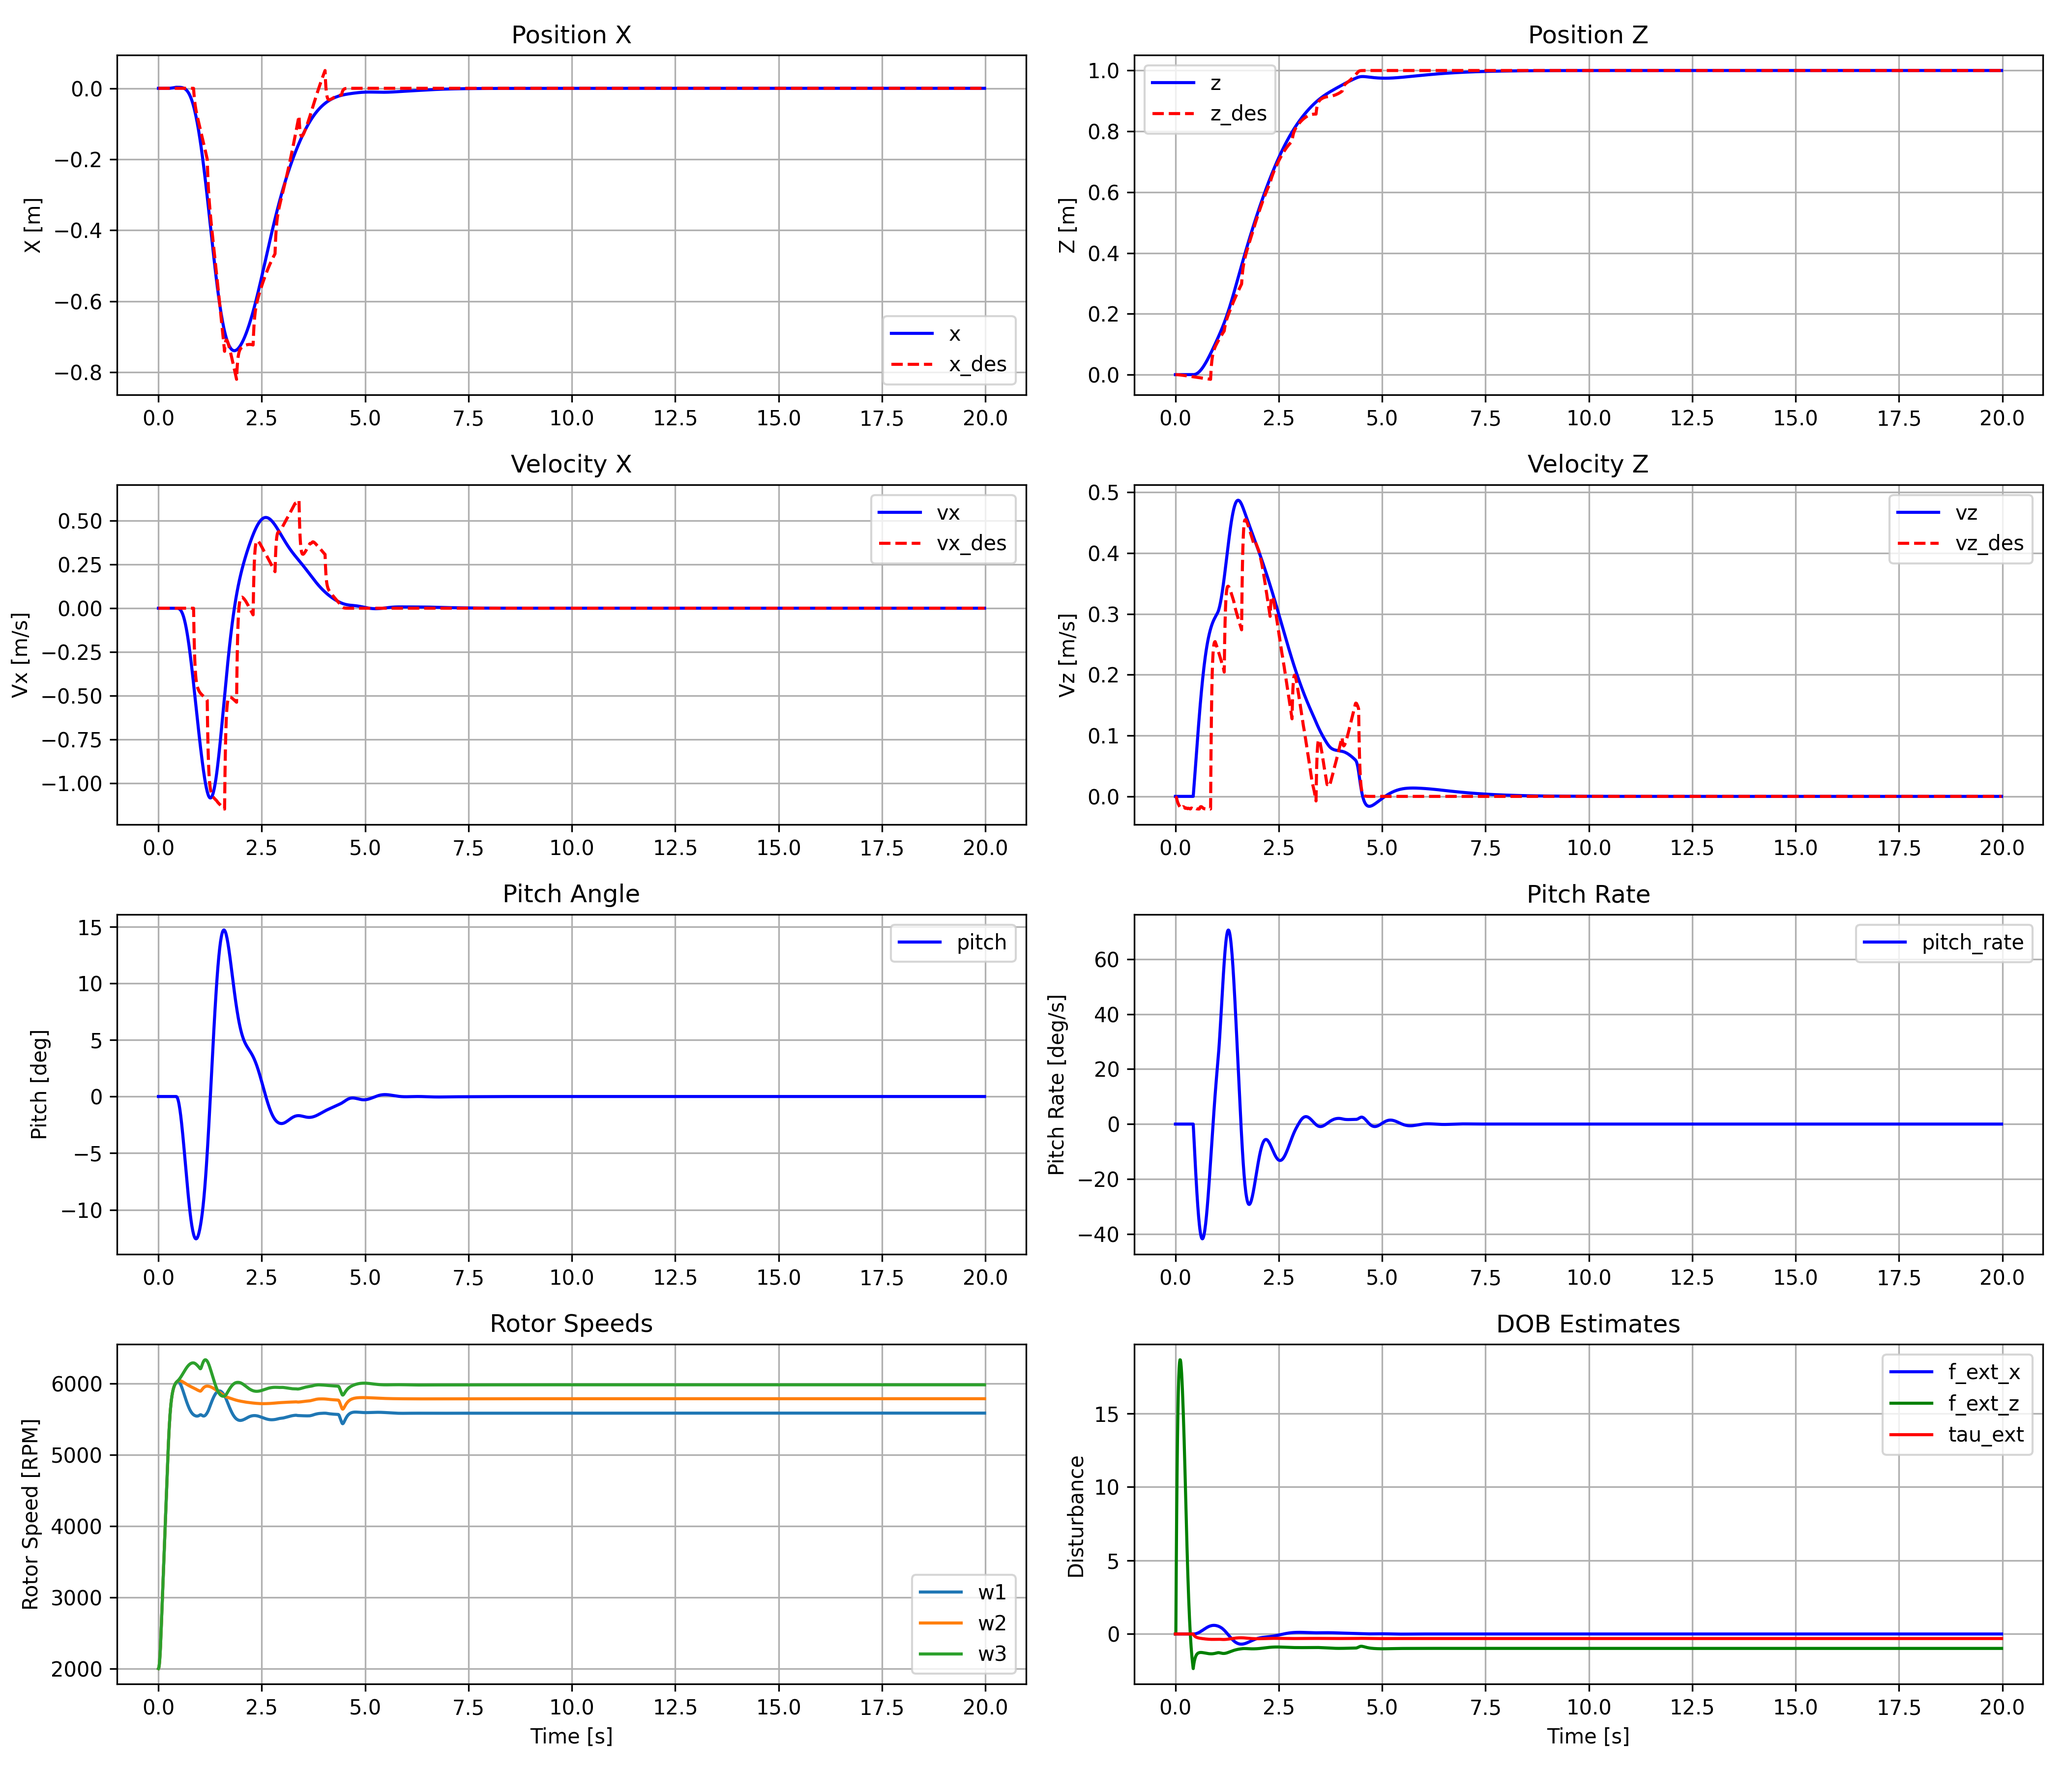
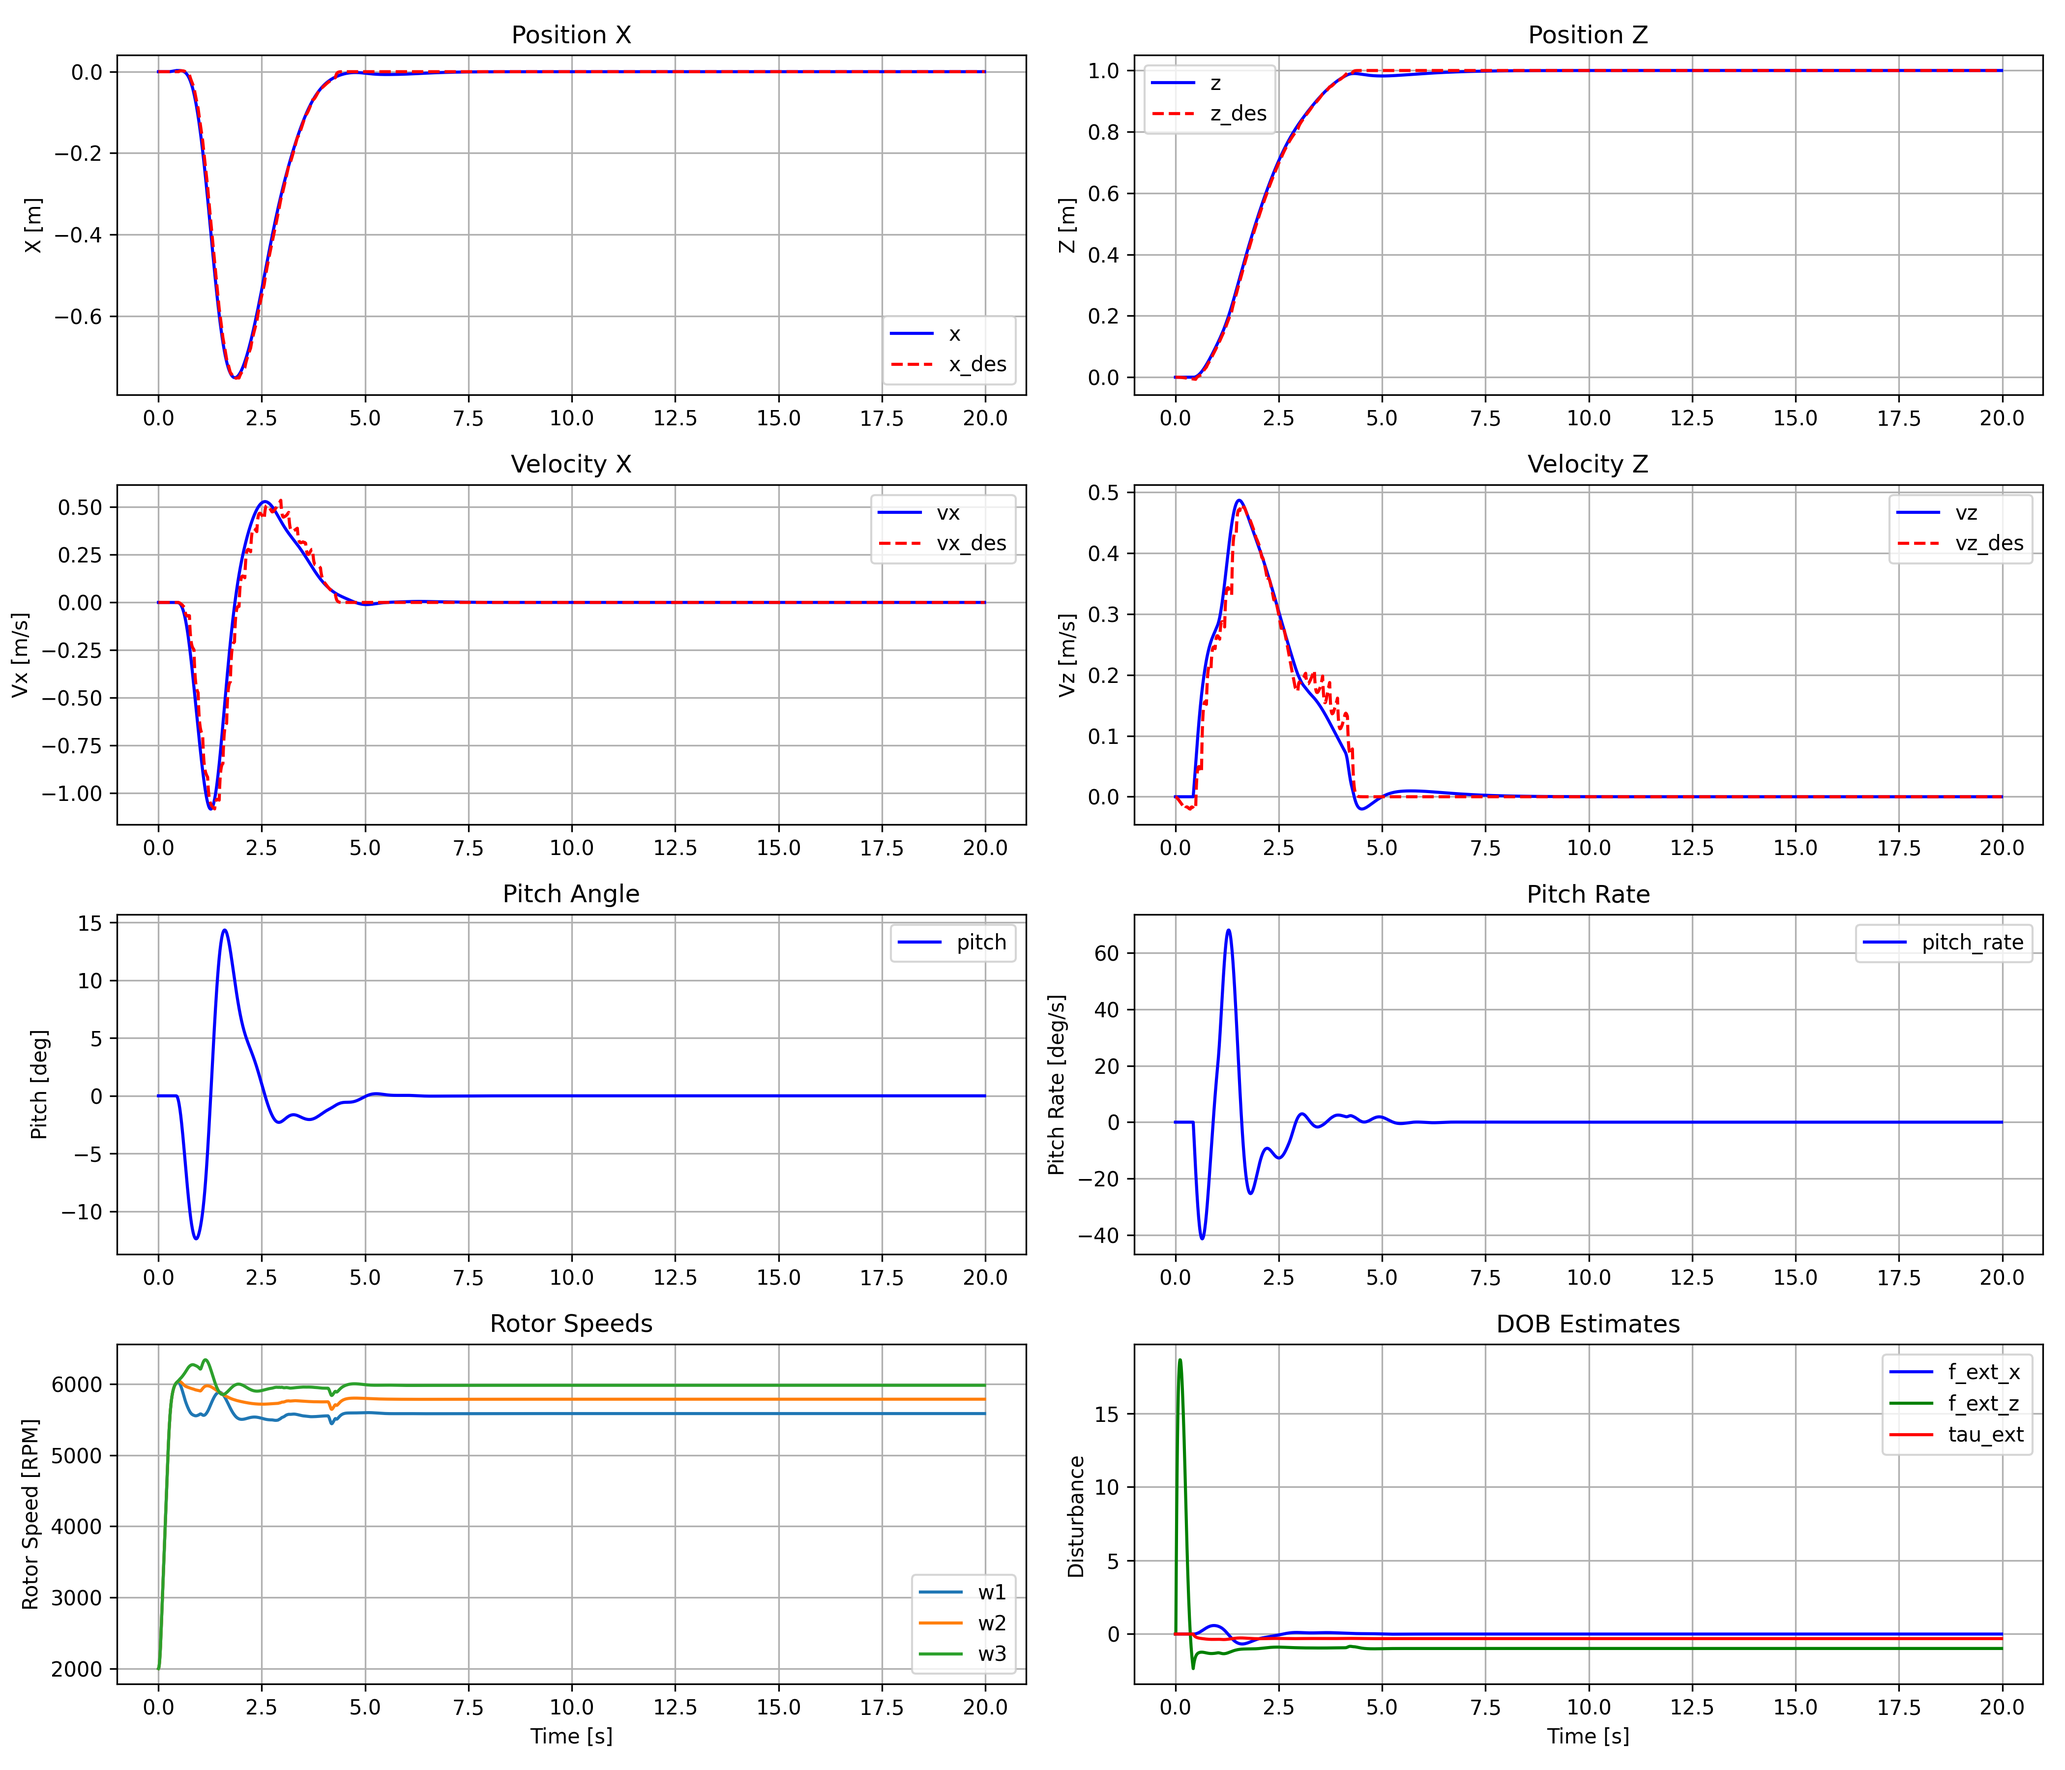
Optimize bisection for faster trajectory generation
- Reduce bisection iterations: 50 → 30
- Increase tolerance: 1e-6 → 1e-4 (still precise enough)
- Reduce decoupling optimization: 5×8×8 → 3×5×5
- Tighten pos_err threshold: 0.1m → 0.01m for cleaner reference

Results:
- Mean solve time: 3.6ms (was 5.7ms, -36%)
- Max solve time: 34ms (was 111ms, -69%)
- Real-time ratio: 2.7x (was 1.7x)

https://claude.ai/code/session_01GV4BW7oaZMroEfAuZQv2Ty

diff --git a/ref_generation/hehn_trajectory.py b/ref_generation/hehn_trajectory.py
@@ -49,7 +49,7 @@ class AxisTrajectory:
         self.tf = 0.0
         self._solved = False
 
-    def solve(self, tol=1e-6, tf_max=20.0):
+    def solve(self, tol=1e-4, tf_max=20.0):
         """Solve for minimum-time trajectory."""
         if abs(self.w0)<1e-6 and abs(self.v0)<1e-6 and abs(self.a0)<1e-6:
             self.tf=0; self._solved=True; return 0.0
@@ -95,12 +95,12 @@ class AxisTrajectory:
             else:
                 return None
 
-        for _ in range(50):
+        for _ in range(30):
             mid = 0.5*(lo+hi)
             wm, sm = gen(mid)
             if wm is None:
                 lo = mid; continue
-            if abs(wm) < tol or (hi-lo) < tol*0.01:
+            if abs(wm) < tol or (hi-lo) < 1e-6:
                 return mid, sm
             if wm * wlo > 0:
                 lo, wlo = mid, wm
@@ -293,23 +293,23 @@ class HehnTrajectoryGenerator:
         # Determine which axes are active
         active = [abs(p0[i])>1e-4 or abs(v0[i])>1e-4 or abs(a0[i])>1e-4 for i in range(3)]
 
-        # Search over z_ddot_min values
-        for zm in [zb, (zb-0.1)/2, max(zb+0.1,-0.1), zb*0.3, zb*0.7]:
+        # Search over z_ddot_min values (reduced for speed)
+        for zm in [zb, zb*0.5, max(zb+0.1,-0.1)]:
             dp = DecouplingParams(0.5,0.5,zm,dp0.a0)
             azl,azh = 0.1,0.9
 
-            for _ in range(8):
+            for _ in range(5):
                 dp.alpha_z = 0.5*(azl+azh)
                 axl,axh = 0.1,0.9
 
                 # Inner: sync x and y
                 if active[0] and active[1]:
-                    for _ in range(8):
+                    for _ in range(5):
                         dp.alpha_x = 0.5*(axl+axh)
                         tx,ty = self._qt(p0,v0,a0,dp,[0,1])
                         if tx>ty: axh=dp.alpha_x
                         else: axl=dp.alpha_x
-                        if (axh-axl)<0.05: break
+                        if (axh-axl)<0.08: break
                 elif active[0] and not active[1]:
                     dp.alpha_x = 0.9
                 elif active[1] and not active[0]:
@@ -330,7 +330,7 @@ class HehnTrajectoryGenerator:
                 elif h_axes and not active[2]:
                     dp.alpha_z = 0.1
                     break
-                if (azh-azl)<0.05: break
+                if (azh-azl)<0.08: break
 
             dp.alpha_z = 0.5*(azl+azh)
             tf = max(self._qt(p0,v0,a0,dp,[0,1,2]))

diff --git a/control/nmpc/ocp/S550_3DOF_ocp.py b/control/nmpc/ocp/S550_3DOF_ocp.py
@@ -332,7 +332,7 @@ class S550_3DOF_ocp:
             if t_rel < self.traj.duration:
                 p_ref, v_ref = self._get_reference(t_rel)
                 pos_err = np.linalg.norm(state_2d[0:2] - p_ref)
-                if pos_err < 0.1:  # Good tracking: use trajectory reference
+                if pos_err < 0.01:  # Good tracking: use trajectory reference
                     use_traj_ref = True
                     pos0 = np.array([p_ref[0], 0.0, p_ref[1]])
                     vel0 = np.array([v_ref[0], 0.0, v_ref[1]])
